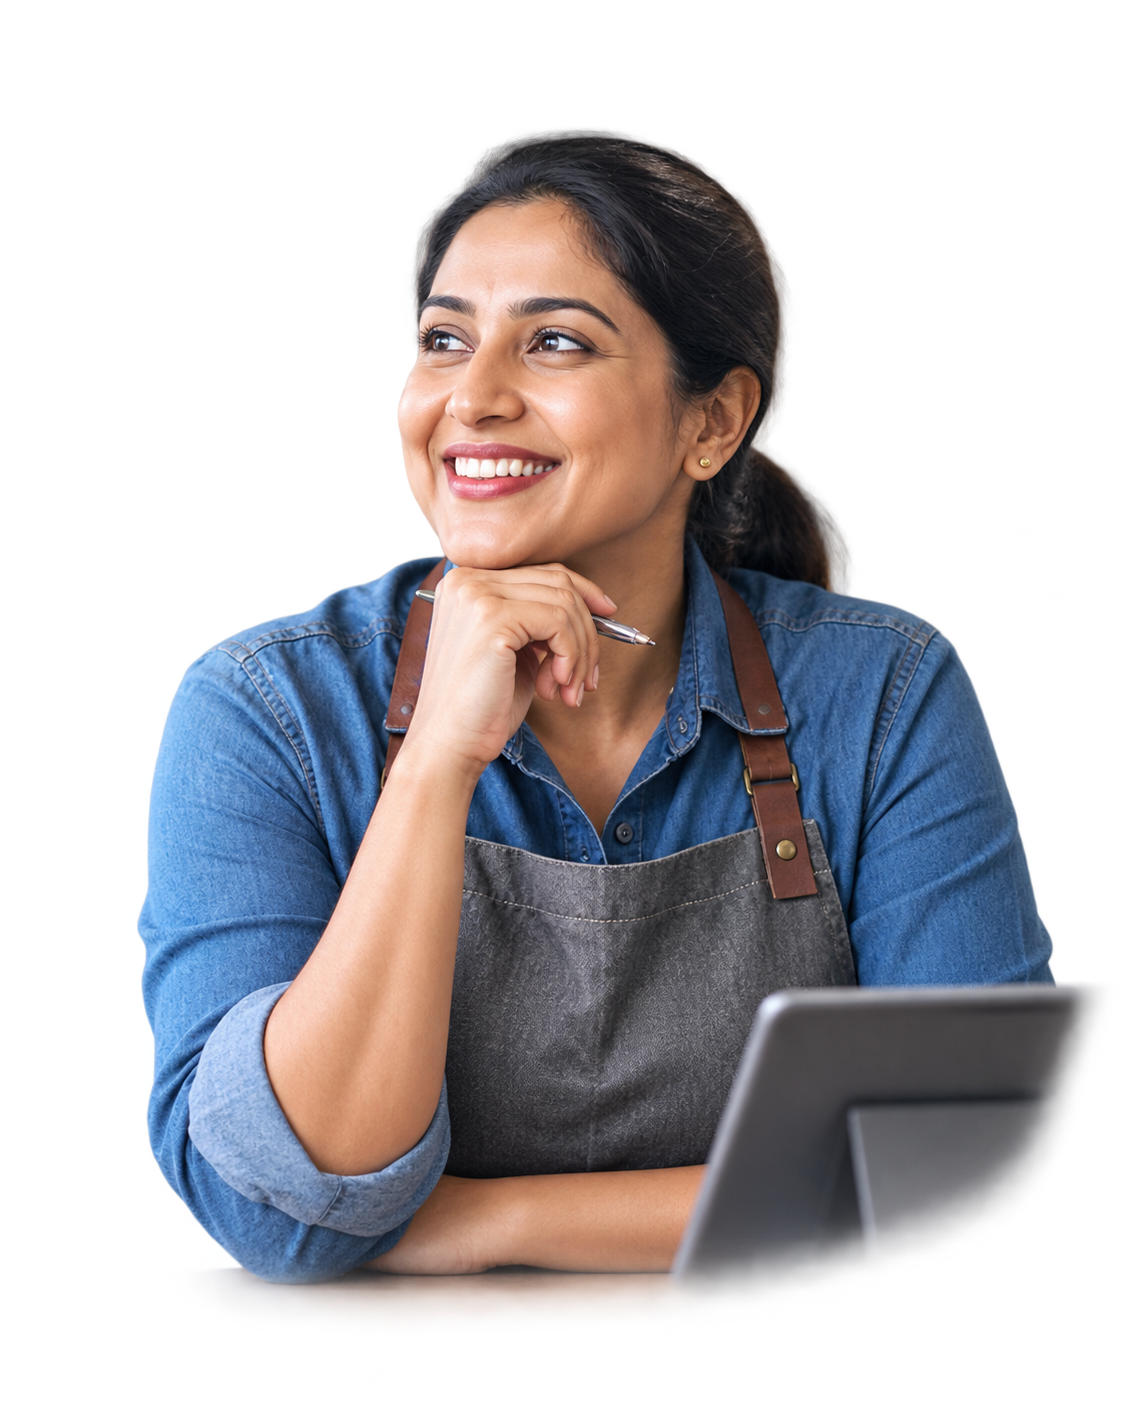
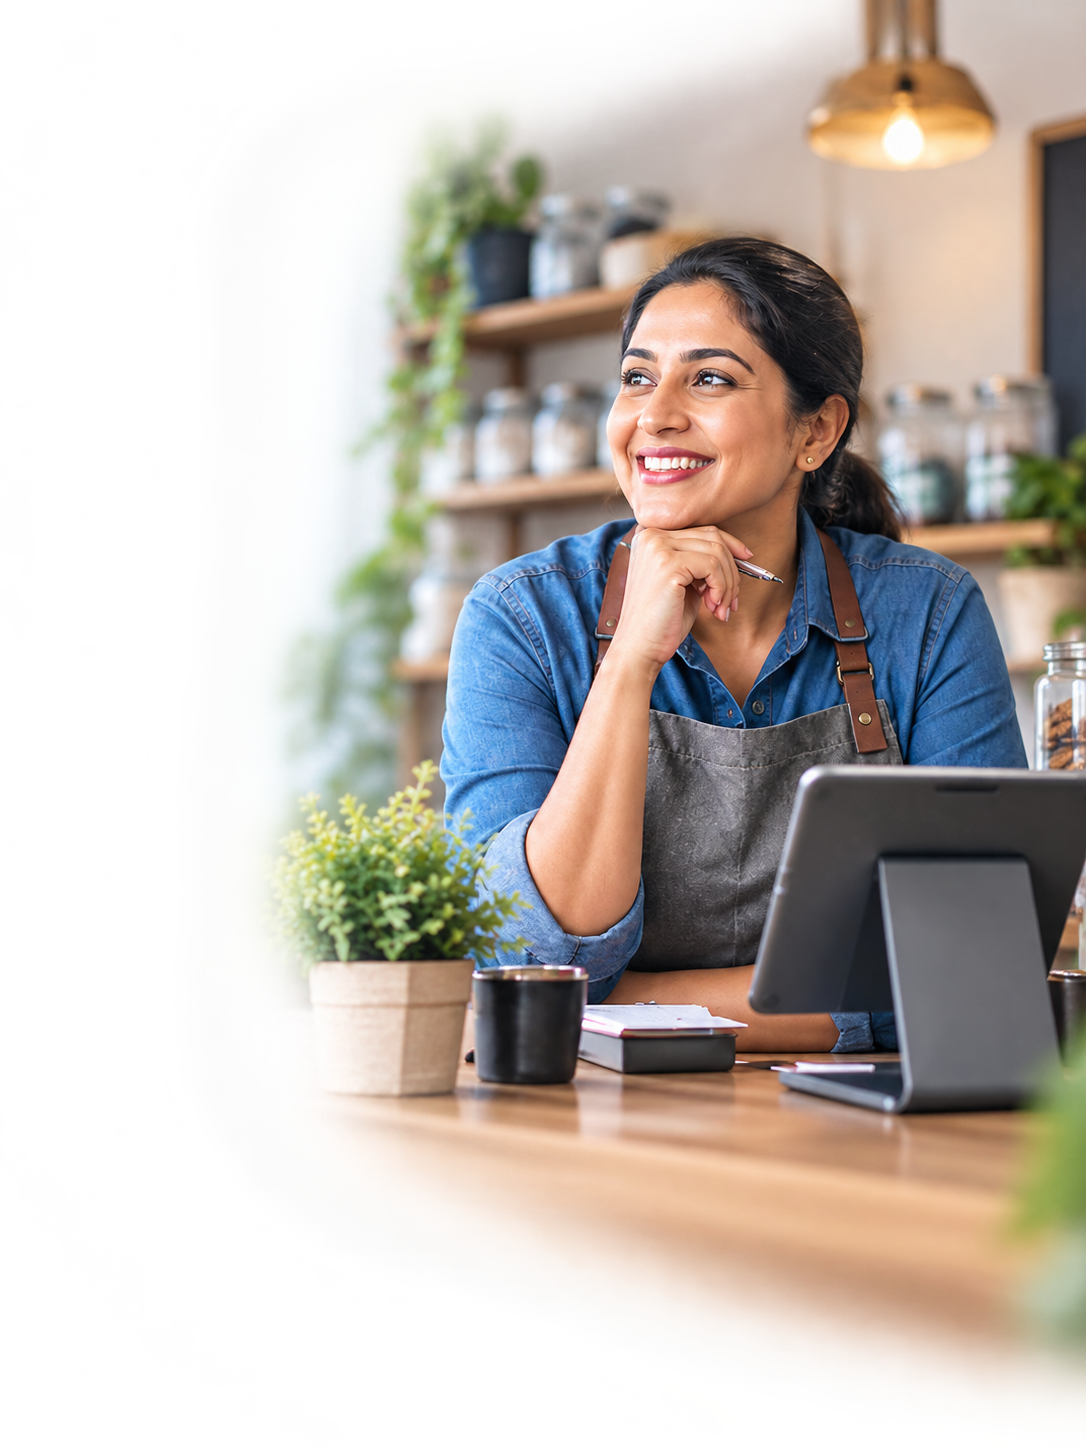
Use the real full-background hero photo and shrink hero so apps need no scroll
Swaps the cutout-on-gradient-panel photo for the actual shop-background
photo (own fade baked into its left edge), placed full-bleed instead of
inside a card. Tightened hero padding/type scale and removed the gap
before Featured Apps so it's the very next thing visible - no scrolling
needed to reach the apps a visitor came to try.

diff --git a/app/(marketing)/page.tsx b/app/(marketing)/page.tsx
@@ -64,42 +64,38 @@ export default function Home() {
     <>
       <SuperAdminHomeRedirect />
       {/* Hero — light, two-column: pitch + real CTAs/nav pills on the left,
-          the owner photo on a warm gradient panel (with two floating notes)
-          on the right. Every piece of text here is real markup, not part
-          of an image, so it's selectable, linkable and indexable. */}
+          the owner photo (its own shop background baked in, fading to
+          transparent on its left edge) filling the right column directly —
+          no card/panel wrapper needed since the photo already blends into
+          the page. Kept short on purpose: Featured Apps needs to be the
+          next thing a visitor sees, not something they scroll to find. */}
       <section className="relative overflow-hidden bg-white">
-        <div className="absolute inset-0" style={{
-          background: "radial-gradient(55% 50% at 15% 15%, rgba(18,166,149,0.10) 0%, transparent 60%), radial-gradient(50% 50% at 90% 10%, rgba(33,89,212,0.10) 0%, transparent 60%)"
-        }} />
-        <Container className="relative !max-w-7xl pt-10 pb-12 md:pt-16 md:pb-16">
-          <div className="grid lg:grid-cols-2 gap-12 lg:gap-16 items-center">
+        <Container className="relative !max-w-7xl pt-6 pb-4 md:pt-8 md:pb-4">
+          <div className="grid lg:grid-cols-2 gap-8 lg:gap-10 items-center">
             <div>
-              <div className="text-brand-teal font-semibold text-xs tracking-widest uppercase mb-4">
+              <div className="text-brand-teal font-semibold text-xs tracking-widest uppercase mb-3">
                 — Smart business. Brighter tomorrow.
               </div>
-              <h1 className="text-4xl md:text-5xl font-extrabold tracking-tight leading-tight text-ink">
-                Run Your Business.
-                <br />
-                Build What&apos;s Next.
-                <br />
+              <h1 className="text-3xl md:text-4xl font-extrabold tracking-tight leading-tight text-ink">
+                Run Your Business. Build What&apos;s Next.{" "}
                 <span className="bg-gradient-to-r from-brand-tealDark to-brand-blueDark bg-clip-text text-transparent">
                   All Under One Roof.
                 </span>
               </h1>
-              <p className="mt-5 text-slate-600 max-w-lg">
+              <p className="mt-3 text-slate-600 max-w-lg text-sm md:text-base">
                 Manage sales, inventory, expenses, customers, POS and more with Bizzux. Powerful business apps,
                 now with AI, to help you work smarter and grow faster.
               </p>
-              <div className="mt-7 flex flex-wrap gap-4">
+              <div className="mt-4 flex flex-wrap gap-3">
                 <CTAButton href="/apps">Explore Bizzux Platform</CTAButton>
                 <CTAButton href="/contact" variant="secondary">Book a Demo</CTAButton>
               </div>
-              <div className="mt-7 flex flex-wrap gap-2.5">
+              <div className="mt-4 flex flex-wrap gap-2">
                 {heroQuickLinks.map((l) => (
                   <a
                     key={l.label}
                     href="/apps"
-                    className="inline-flex items-center gap-1.5 rounded-full bg-white border border-slate-200 px-3.5 py-1.5 text-sm text-slate-700 hover:border-brand-teal hover:text-brand-blue transition-colors"
+                    className="inline-flex items-center gap-1.5 rounded-full bg-white border border-slate-200 px-3 py-1 text-xs md:text-sm text-slate-700 hover:border-brand-teal hover:text-brand-blue transition-colors"
                   >
                     <l.icon className="w-3.5 h-3.5" />
                     {l.label}
@@ -108,17 +104,17 @@ export default function Home() {
               </div>
             </div>
 
-            <div className="relative">
-              <div className="relative rounded-[2rem] bg-gradient-to-br from-amber-50 via-orange-50 to-teal-50 overflow-hidden aspect-[4/5] flex items-end justify-center">
+            <div className="relative hidden lg:block">
+              <div className="relative overflow-hidden aspect-[16/10] flex items-end justify-end">
                 {/* eslint-disable-next-line @next/next/no-img-element */}
                 <img
                   src="/images/hero-owner.png"
                   alt="A Bizzux shop owner, smiling, with a POS tablet on her counter"
-                  className="w-[92%] h-auto object-contain object-bottom drop-shadow-xl"
+                  className="absolute inset-0 w-full h-full object-cover object-right"
                 />
               </div>
 
-              <div className="absolute top-5 right-[-0.5rem] md:right-[-1rem] bg-white rounded-2xl shadow-lg shadow-slate-900/10 border border-slate-100 px-4 py-3 flex items-center gap-3 max-w-[200px]">
+              <div className="absolute top-3 right-2 bg-white rounded-2xl shadow-lg shadow-slate-900/10 border border-slate-100 px-4 py-3 flex items-center gap-3 max-w-[200px]">
                 <div className="w-9 h-9 rounded-lg bg-gradient-to-br from-brand-tealDark to-brand-blueDark text-white flex items-center justify-center shrink-0">
                   <IconChart className="w-4.5 h-4.5" />
                 </div>
@@ -126,7 +122,7 @@ export default function Home() {
               </div>
 
               <div
-                className="absolute top-16 left-[-0.5rem] md:left-[-1.5rem] text-brand-blue text-sm font-medium italic -rotate-6 select-none hidden sm:block"
+                className="absolute bottom-4 left-2 text-brand-blue text-sm font-medium italic -rotate-6 select-none"
                 style={{ fontFamily: "cursive" }}
               >
                 More time for what you love
@@ -136,11 +132,11 @@ export default function Home() {
         </Container>
       </section>
 
-      {/* Featured apps */}
-      <div className="px-6 mt-4 md:mt-6 relative z-10">
+      {/* Featured apps — right under the hero, no scroll needed to reach it */}
+      <div className="px-6 relative z-10">
         <Container className="!px-0 !max-w-7xl">
-          <div className="rounded-2xl border border-slate-100 bg-white shadow-sm p-8 md:p-10">
-            <div className="flex items-center justify-between border-b border-slate-100 pb-4 mb-7">
+          <div className="rounded-2xl border border-slate-100 bg-white shadow-sm p-6 md:p-7">
+            <div className="flex items-center justify-between border-b border-slate-100 pb-3 mb-5">
               <span className="text-sm font-bold tracking-wide uppercase text-slate-500">Featured apps</span>
               <a
                 href="/apps"
